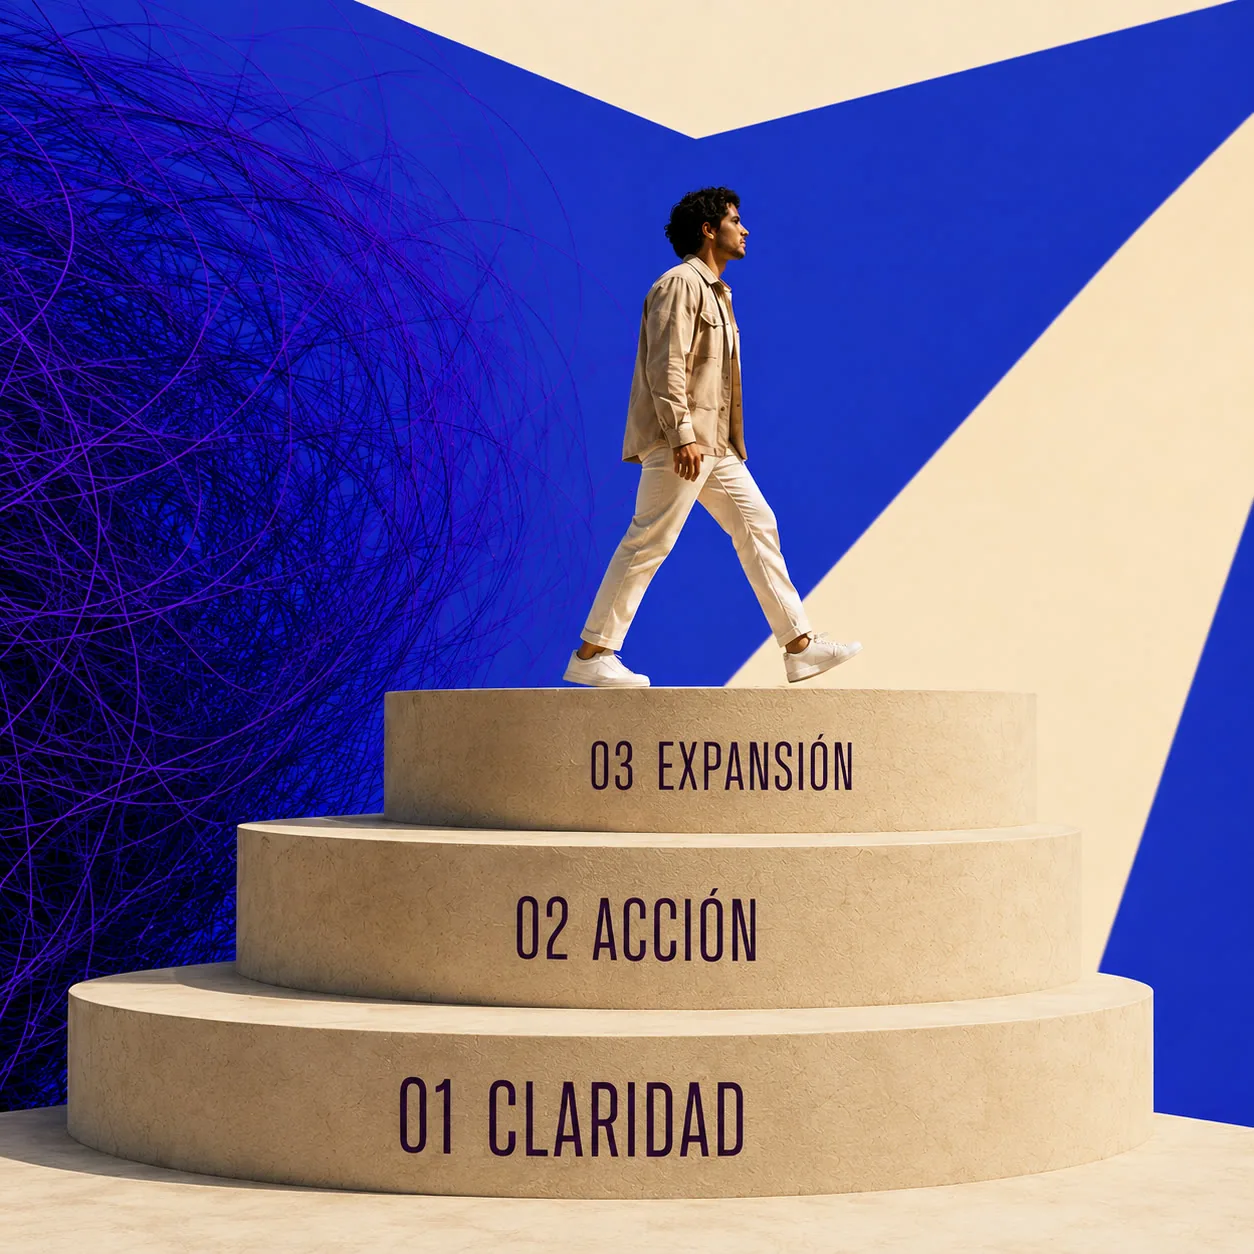
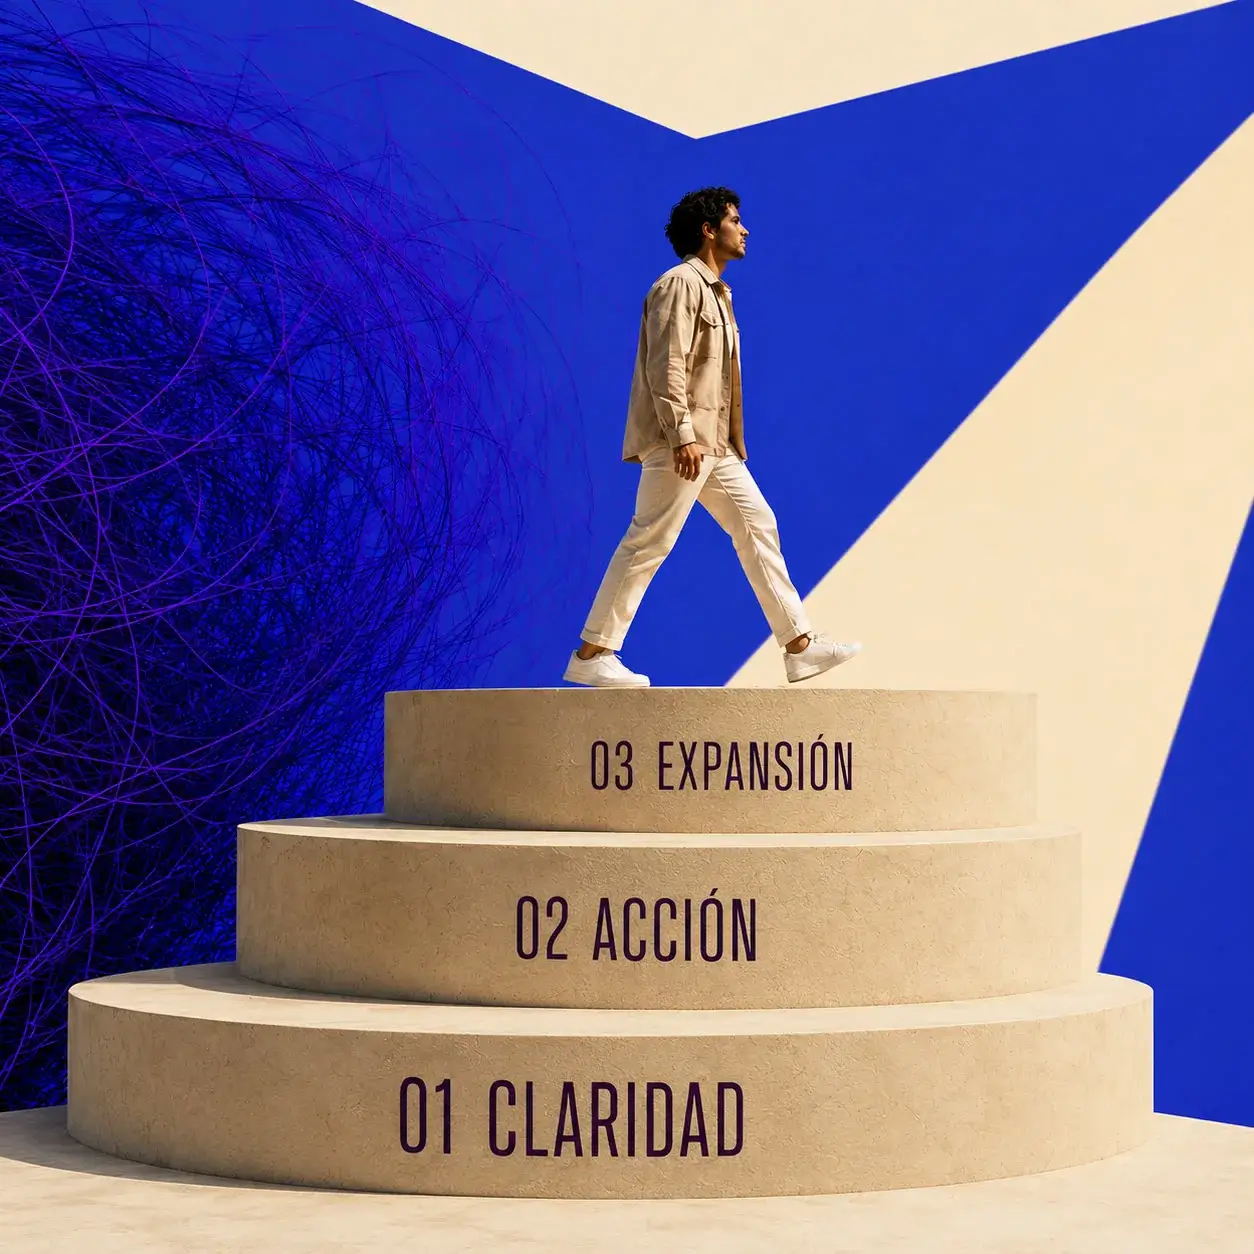
feat: notificacion push al admin en intentos de pago y landing mas rapida (imagenes webp comprimidas, PNG basura eliminados)

diff --git a/backend/src/routes/membership.ts b/backend/src/routes/membership.ts
@@ -5,6 +5,7 @@ import { z } from 'zod';
 import { config } from '../config/index.js';
 import { createInvoice, getPaymentStatus, verifyWebhookSignature } from '../utils/nowpayments.js';
 import { activateMembership } from '../utils/activation.js';
+import { sendWebPush } from '../utils/onesignal.js';
 import { validateWithdrawalInput } from '../utils/withdrawals.js';
 
 const defaults = {
@@ -15,6 +16,22 @@ const defaults = {
 };
 
 interface JWTPayload { sub: string; email: string; role: string; type?: string; }
+
+// Notifica por push a todos los admins cuando ocurre un evento importante (ej. intento de pago).
+async function notifyAdmins(title: string, message: string) {
+  try {
+    const admins = await prisma.user.findMany({ where: { role: 'ADMIN' }, select: { id: true } });
+    if (admins.length === 0) return;
+    await sendWebPush({
+      externalUserIds: admins.map(a => a.id),
+      title,
+      message,
+      url: '/admin/withdrawals',
+    });
+  } catch (e) {
+    console.error('Error notificando a admins:', e);
+  }
+}
 
 async function getSettings(userPlans?: string[]) {
   const rows = await prisma.adminSetting.findMany();
@@ -187,6 +204,10 @@ export async function membershipRoutes(app: FastifyInstance) {
       },
     });
 
+    // Avisa al admin por push de que alguien intentó pagar la membresía.
+    const buyerName = user.firstName ? `${user.firstName} ${user.lastName || ''}`.trim() : user.username;
+    void notifyAdmins('💳 Intento de pago', `${buyerName} inició el pago del plan ${plan.name} (${plan.price} USDT).`);
+
     // Crear invoice en NowPayments para que el usuario pague con cripto.
     // Si la moneda configurada es USDT (bep20/polygon), el monto es EXACTO en USDT
     // (500 USDT / 1000 USDT) y no depende del tipo de cambio.
@@ -259,6 +280,10 @@ export async function membershipRoutes(app: FastifyInstance) {
         expiresAt: new Date(Date.now() + PAYMENT_TTL_MINUTES * 60 * 1000),
       },
     });
+
+    // Avisa al admin por push del intento de pago de la cuota mensual.
+    const buyerName = user.firstName ? `${user.firstName} ${user.lastName || ''}`.trim() : user.username;
+    void notifyAdmins('💳 Intento de pago (cuota)', `${buyerName} inició el pago de la cuota mensual (${settings.monthlyFee} USDT).`);
 
     let invoiceUrl: string | null = null;
     if (config.nowpayments.apiKey) {
